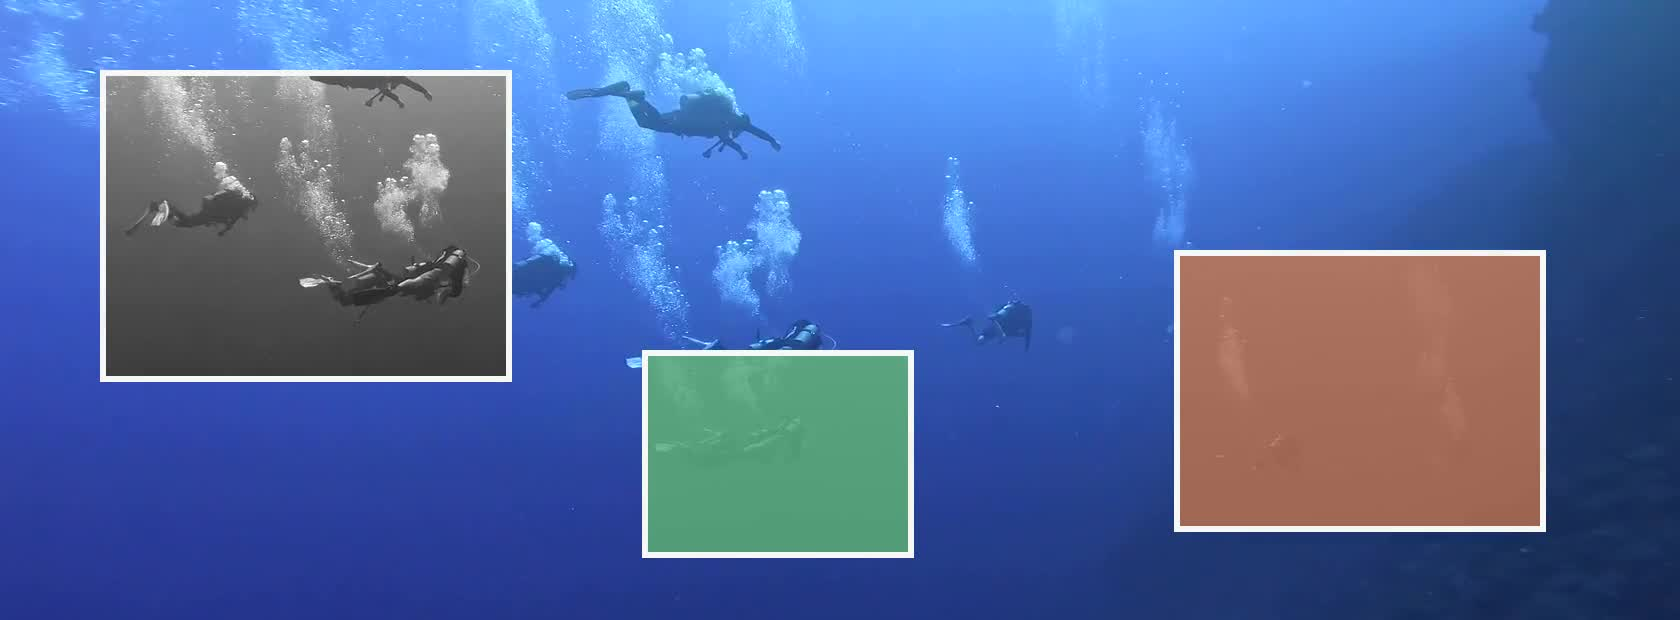
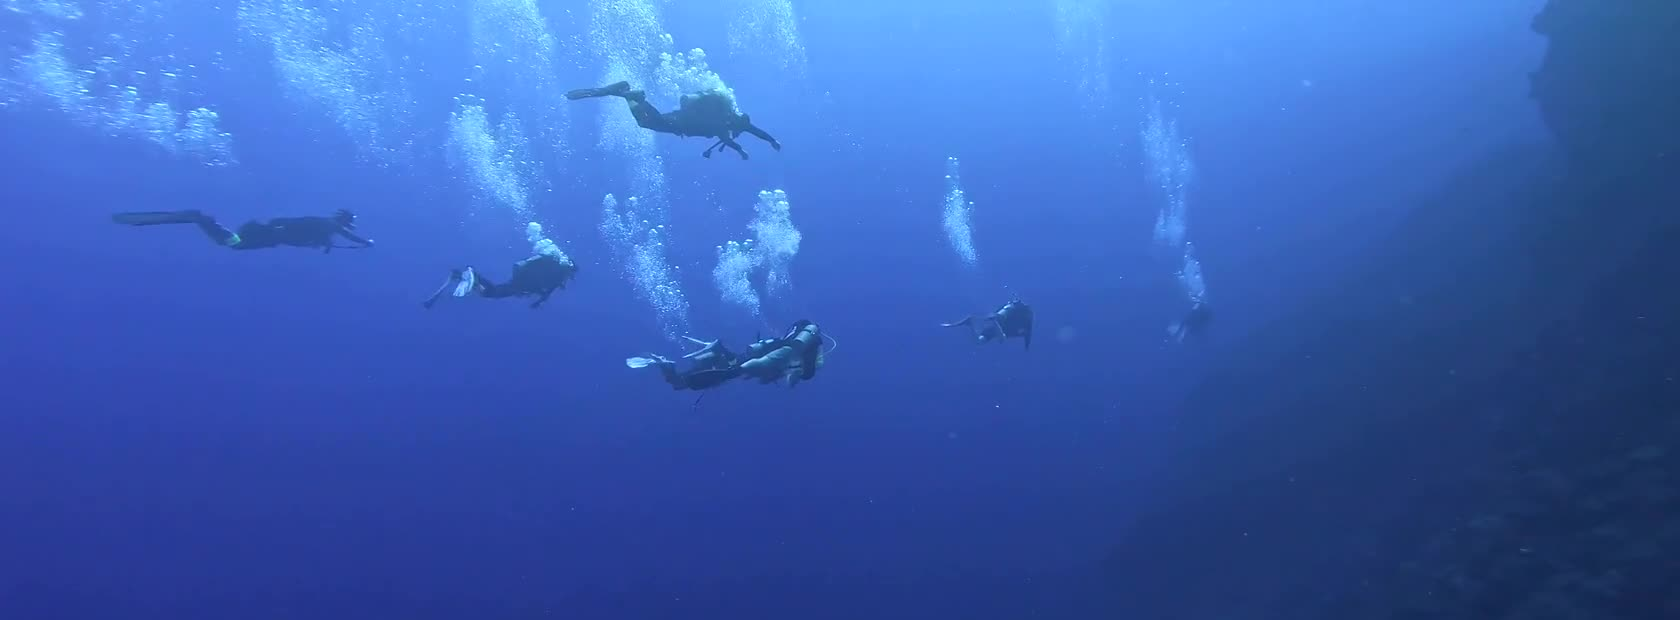
Hero collage done properly: DOM tiles over a clean full-bleed clip
The boxes are page elements layered on the video — uniform size, crisp
white borders and shadows at every viewport, all visible together, gentle
CSS drift and zoom; each tile is a zoomed crop of the same clip with its
own grade (B&W, coral, sage) via CSS filters. The baked-overlay video is
replaced by the plain 3.7s clip, so responsive cover-cropping can no longer
cut the tiles.

Claude-Session: https://claude.ai/code/session_019mzjgqXinBZNqaFxx7qsum

Changed region(s): [[0.031, 0.0919, 0.3095, 0.6435], [0.681, 0.3984, 0.9286, 0.8581], [0.3714, 0.5516, 0.5571, 0.9194]]

diff --git a/diving-site.html b/diving-site.html
@@ -741,6 +741,23 @@ svg.leaflet-image-layer.leaflet-interactive path {
   .hero-band video{width:100%;height:100%;object-fit:cover;display:block}
   .hero-band .photo-credit{position:absolute;right:10px;bottom:6px;font-size:.62rem;
        color:rgba(233,247,246,.55);font-family:var(--mono)}
+  /* floating collage tiles: zoomed, graded crops of the same clip, drifting
+     gently — page elements, so borders and sizes survive any viewport */
+  .hb-tile{position:absolute;width:21%;max-width:340px;min-width:150px;aspect-ratio:4/3;overflow:hidden;
+       border:5px solid #f6f8f8;box-shadow:0 22px 44px -20px rgba(3,23,31,.5);
+       animation:hbdrift 5.4s ease-in-out infinite alternate}
+  .hb-tile video{position:absolute;width:340%;left:-120%;top:-40%;
+       animation:hbzoom 7.4s ease-in-out infinite alternate}
+  .hb-bw{left:4.5%;top:14%}
+  .hb-bw video{filter:grayscale(1) contrast(1.35);left:-150%;top:-30%}
+  .hb-coral{right:4.5%;top:36%;animation-duration:6.6s;animation-delay:.8s}
+  .hb-coral video{filter:sepia(1) saturate(1.9) hue-rotate(-18deg) contrast(1.18) brightness(1.05);left:-190%;top:-60%}
+  .hb-sage{left:41%;top:50%;width:15%;animation-duration:7.2s;animation-delay:.4s}
+  .hb-sage video{filter:sepia(1) saturate(1.4) hue-rotate(95deg) contrast(1.22) brightness(1.04);left:-130%;top:-80%}
+  @keyframes hbdrift{from{transform:translateX(-13px)}to{transform:translateX(13px)}}
+  @keyframes hbzoom{from{transform:scale(1)}to{transform:scale(1.18)}}
+  @media(max-width:700px){.hb-sage{display:none}.hb-tile{border-width:3px}}
+  @media(prefers-reduced-motion:reduce){.hb-tile{animation:none}.hb-tile video{animation:none}}
   .hero{position:relative;overflow:hidden;text-align:center;padding:64px 18px 52px;
         background:radial-gradient(1100px 460px at 50% -180px,rgba(47,224,214,.22) 0%,rgba(14,156,146,.08) 50%,transparent 100%)}
   .hero::after{content:"";position:absolute;left:0;right:0;bottom:0;height:90px;
@@ -1319,6 +1336,9 @@ svg.leaflet-image-layer.leaflet-interactive path {
 
 <div class="hero-band" id="heroBand">
   <video id="heroVideo" autoplay muted loop playsinline preload="metadata" poster="assets/video/hero-dive-poster.jpg"></video>
+  <div class="hb-tile hb-bw"><video muted autoplay loop playsinline preload="metadata"></video></div>
+  <div class="hb-tile hb-coral"><video muted autoplay loop playsinline preload="metadata"></video></div>
+  <div class="hb-tile hb-sage"><video muted autoplay loop playsinline preload="metadata"></video></div>
   <span class="photo-credit" id="heroCredit"></span>
 </div>
 <header class="hero" id="hero">
@@ -1894,9 +1914,11 @@ function setHeroPhoto(){
   var v=document.getElementById('heroVideo');
   if(v){
     if(window.matchMedia&&window.matchMedia('(prefers-reduced-motion: reduce)').matches){
+      document.querySelectorAll('#heroBand .hb-tile').forEach(function(t){t.remove();});
       v.remove();
     }else{
       v.addEventListener('error',function(){v.style.display='none';},true);
+      document.querySelectorAll('#heroBand .hb-tile video').forEach(function(tv){tv.src=HERO_VIDEO.src;});
       v.src=HERO_VIDEO.src;
       var vc=document.getElementById('heroCredit');
       if(HERO_VIDEO.credit){vc.textContent='\u24D8';vc.title=HERO_VIDEO.credit;vc.style.cursor='help';}

diff --git a/index.html b/index.html
@@ -78,6 +78,23 @@
   .hero-band video{width:100%;height:100%;object-fit:cover;display:block}
   .hero-band .photo-credit{position:absolute;right:10px;bottom:6px;font-size:.62rem;
        color:rgba(233,247,246,.55);font-family:var(--mono)}
+  /* floating collage tiles: zoomed, graded crops of the same clip, drifting
+     gently — page elements, so borders and sizes survive any viewport */
+  .hb-tile{position:absolute;width:21%;max-width:340px;min-width:150px;aspect-ratio:4/3;overflow:hidden;
+       border:5px solid #f6f8f8;box-shadow:0 22px 44px -20px rgba(3,23,31,.5);
+       animation:hbdrift 5.4s ease-in-out infinite alternate}
+  .hb-tile video{position:absolute;width:340%;left:-120%;top:-40%;
+       animation:hbzoom 7.4s ease-in-out infinite alternate}
+  .hb-bw{left:4.5%;top:14%}
+  .hb-bw video{filter:grayscale(1) contrast(1.35);left:-150%;top:-30%}
+  .hb-coral{right:4.5%;top:36%;animation-duration:6.6s;animation-delay:.8s}
+  .hb-coral video{filter:sepia(1) saturate(1.9) hue-rotate(-18deg) contrast(1.18) brightness(1.05);left:-190%;top:-60%}
+  .hb-sage{left:41%;top:50%;width:15%;animation-duration:7.2s;animation-delay:.4s}
+  .hb-sage video{filter:sepia(1) saturate(1.4) hue-rotate(95deg) contrast(1.22) brightness(1.04);left:-130%;top:-80%}
+  @keyframes hbdrift{from{transform:translateX(-13px)}to{transform:translateX(13px)}}
+  @keyframes hbzoom{from{transform:scale(1)}to{transform:scale(1.18)}}
+  @media(max-width:700px){.hb-sage{display:none}.hb-tile{border-width:3px}}
+  @media(prefers-reduced-motion:reduce){.hb-tile{animation:none}.hb-tile video{animation:none}}
   .hero{position:relative;overflow:hidden;text-align:center;padding:64px 18px 52px;
         background:radial-gradient(1100px 460px at 50% -180px,rgba(47,224,214,.22) 0%,rgba(14,156,146,.08) 50%,transparent 100%)}
   .hero::after{content:"";position:absolute;left:0;right:0;bottom:0;height:90px;
@@ -656,6 +673,9 @@
 
 <div class="hero-band" id="heroBand">
   <video id="heroVideo" autoplay muted loop playsinline preload="metadata" poster="assets/video/hero-dive-poster.jpg"></video>
+  <div class="hb-tile hb-bw"><video muted autoplay loop playsinline preload="metadata"></video></div>
+  <div class="hb-tile hb-coral"><video muted autoplay loop playsinline preload="metadata"></video></div>
+  <div class="hb-tile hb-sage"><video muted autoplay loop playsinline preload="metadata"></video></div>
   <span class="photo-credit" id="heroCredit"></span>
 </div>
 <header class="hero" id="hero">
@@ -959,9 +979,11 @@ function setHeroPhoto(){
   var v=document.getElementById('heroVideo');
   if(v){
     if(window.matchMedia&&window.matchMedia('(prefers-reduced-motion: reduce)').matches){
+      document.querySelectorAll('#heroBand .hb-tile').forEach(function(t){t.remove();});
       v.remove();
     }else{
       v.addEventListener('error',function(){v.style.display='none';},true);
+      document.querySelectorAll('#heroBand .hb-tile video').forEach(function(tv){tv.src=HERO_VIDEO.src;});
       v.src=HERO_VIDEO.src;
       var vc=document.getElementById('heroCredit');
       if(HERO_VIDEO.credit){vc.textContent='\u24D8';vc.title=HERO_VIDEO.credit;vc.style.cursor='help';}